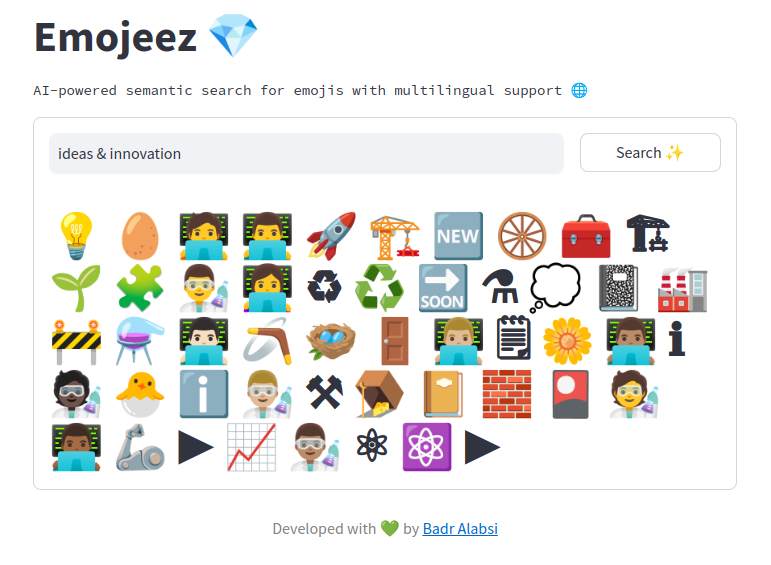
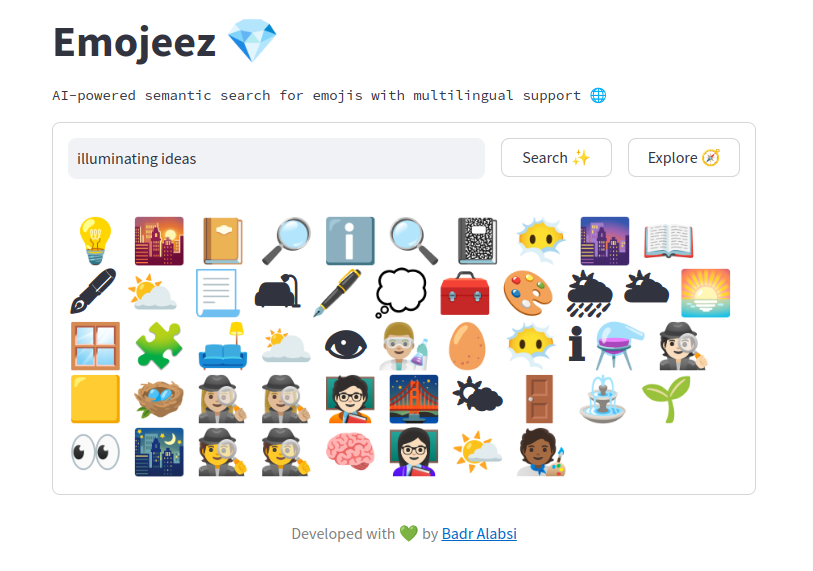
update Explore feature and READMD.md

diff --git a/search_emojis_app.py b/search_emojis_app.py
@@ -143,7 +143,7 @@ def return_similar_emojis(
     hits = vector_DB_client.search(
         collection_name="EMOJIS",
         query_vector=query_vector,
-        limit=50,
+        limit=100,
     )
 
     search_emojis = []
@@ -197,7 +197,6 @@ def main():
         "Innovation & creativity",
         "Scientific discovery",
         "Space exploration",
-        "Future technologies",
         "Sustainable development",
         "Climate change",
         "Environmental protection",
@@ -215,11 +214,9 @@ def main():
         "Financial freedom",
         "Investment opportunities",
         "Economic growth",
-        "Culture & heritage",
         "Traditional crafts",
         "Folk music",
         "Cultural shock",
-
     ]
 
     random_query = random.sample(example_queries, 1)[0]
@@ -278,13 +275,13 @@ def main():
             )
 
         with col3:
-            trigger_magic = st.button(
+            trigger_explore = st.button(
                 label="Explore 🧭", 
                 use_container_width=True
             )
 
 
-        # Trigger search if the search button is clicked or user clicked Enter
+        # Trigger search if the search button is clicked or user clicked Ebitnter
         if trigger_search or (st.session_state.get('enter_clicked') and query):
             if query:
                 results = return_similar_emojis(
@@ -306,10 +303,10 @@ def main():
             else:
                 st.error("Please enter a query of a few keywords to search!")
 
-        # Trigger magic if the search button is clicked
-        
-        # if trigger_magic:
-        #     st.session_state.input_text = random_query
+        # Trigger explore if the Explore button is clicked
+        if trigger_explore:
+            st.session_state.input_text = random_query
+            st.experimental_rerun()
 
         #     #st.session_state
 

diff --git a/README.md b/README.md
@@ -19,7 +19,7 @@ Try out Emojeez 💎 [here](https://emojeez.streamlit.app/).
 
  - **LLM-Generated Emoji Descriptions** 🦜 Go beyond simple string matching and experience the power of Large Language Models (LLMs) for better semantic search. Emojeez 💎 utilizes enriched semantic descriptions generated by Meta AI's Llama-3-8B model. These descriptions not only define each emoji and its symbolism but also provide better contextualization of its usage in today's text-based communication. For more information, see this 🤗 [Dataset](https://huggingface.co/datasets/badrabdullah/llm-emoji-dataset). 
 
-- **Efficient Indexing for Thousands of Emojis** ✨  Explore more than 5000 emojis based on the most recent Unicode standards. While each emoji is searchable by its standard name, you can also discover emojis by their common usage in today's text-based communication. For example, the text query *great ambition* returns 🚀, while *idea* returns 💡.
+- **Efficient Indexing for Thousands of Emojis** ✨  Explore more than 5000 emojis based on the most recent Unicode standards. While each emoji is searchable by its standard name, you can also discover emojis by by their meaning and how they are used by social media users. For example, the text query *great ambition* returns 🚀, while *idea* returns 💡.
 
 - **Comprehensive Multilingual Support** 🌐 Discover emojis using your native language! This feature is facilitated by a Transformer-based multilingual encoder that supports over 50 languages.
 
@@ -28,7 +28,7 @@ Try out Emojeez 💎 [here](https://emojeez.streamlit.app/).
 
 ## 🌱 Getting Started
 
-These instructions will get you a copy of the project up and running on your local machine for development and testing purposes.
+ To get a copy of the project up and running on your local machine for development and testing purposes, follow these instructions.
 
 ### Prerequisites
 
@@ -77,7 +77,7 @@ Here, I provide a few exampels of text queries and the output of the search algo
 |----------|----------|
 | great ambition  | 🚀 ⚒ 💯 💸 🎯 🧗 🧗♂ 🧗🏽♂ 🏃♀ 🧗🏾♂  |
 | innovative idea  | 💡 🥚 🧰 🧑💻 🚀 🧩 🛞 🌱 💭 🪤  |
-| extinct  | 🦣 🏚 🦖 🏚 🧟♀ 🦤 🦕 🧟♀ 🧟♂ 🧟♂ |
+| extinct species | 🦣 🦖 🦕 🦤 🦥 🏚 🇦🇶 🦛 🐧 🦏 |
 | animal that builds dams | 🦫 🐃 🐏 🐐 🦬 🦦 🐂 🦛 🐺 🦙 |
 | protect from evil eye | 🧿 👓 🥽 👁 🦹🏻 👀 🦹🏿 🛡 🦹🏼 🦹🏻♂ |
 | popular sport in the USA | ⚾ 🏐 🏀 🏈 🥍 🏓 🏑 🤾♂ 🤾♂ 🎾 |
